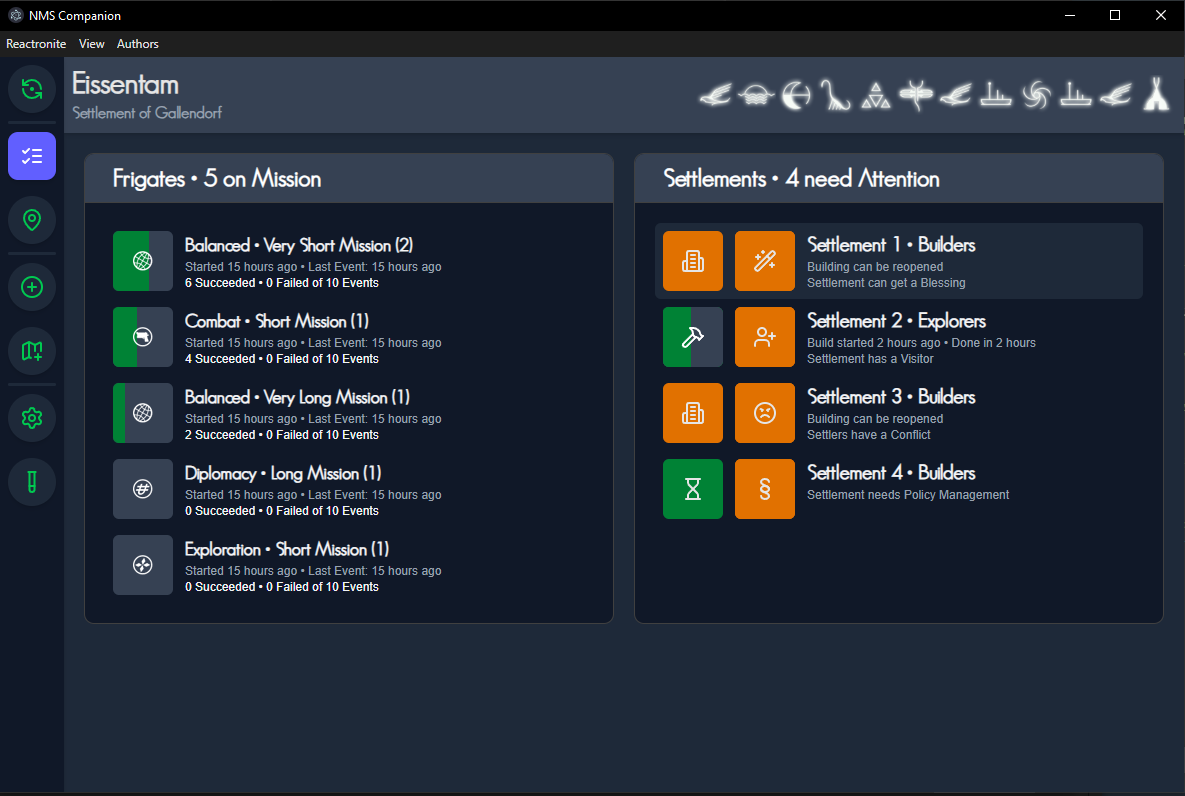
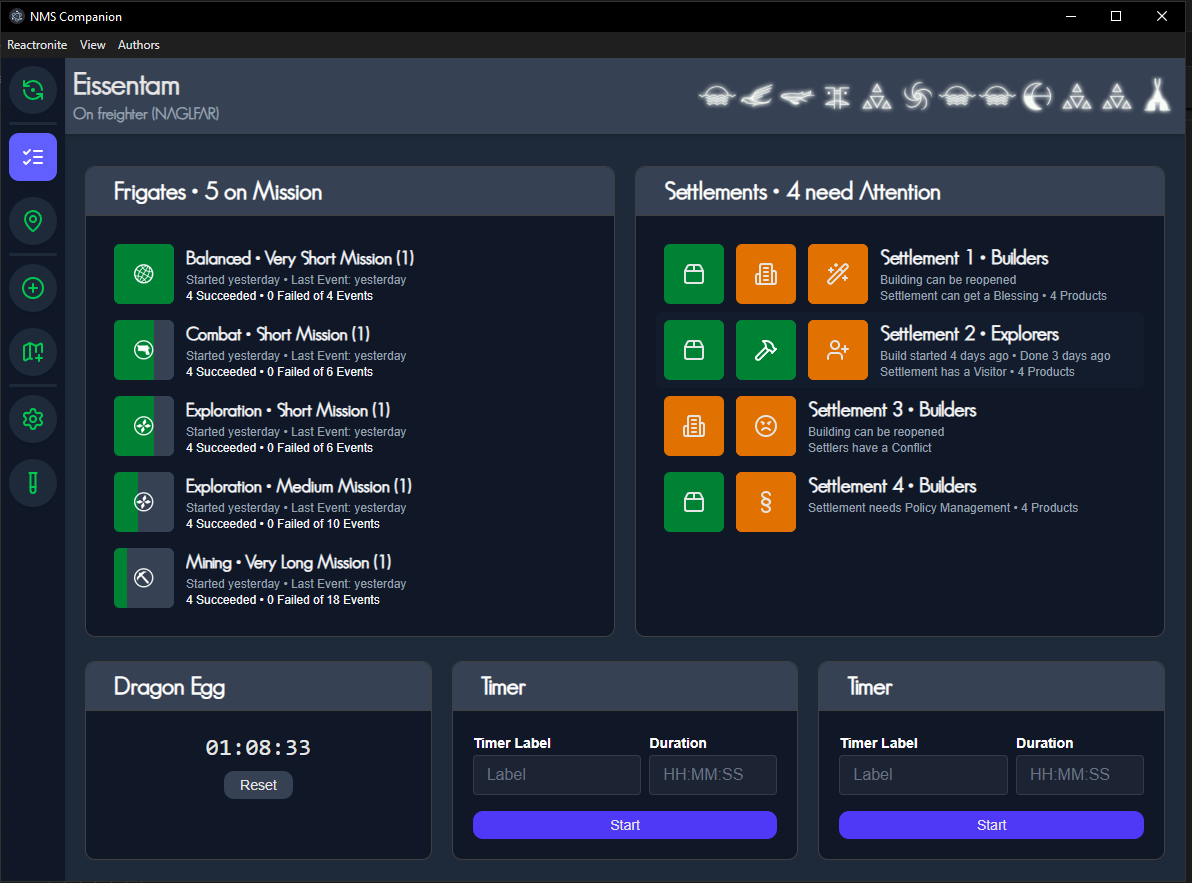
feat: timer feature

diff --git a/src/app/components/TimerMission.tsx b/src/app/components/TimerMission.tsx
@@ -1,0 +1,139 @@
+import React from 'react';
+import { useForm, SubmitHandler } from 'react-hook-form';
+
+import Card from './Card';
+
+interface TimerFormValues {
+  label: string;
+  duration: string;
+}
+
+interface TimerData {
+  endTime: number;
+  label: string;
+  confirmed?: boolean;
+}
+
+interface TimerComponentProps {
+  storageKey: string;
+}
+
+export const TimerMission: React.FC<TimerComponentProps> = ({ storageKey }) => {
+  const { register, handleSubmit, reset, watch, setValue } = useForm<TimerFormValues>({
+    defaultValues: { label: '', duration: '' }
+  });
+
+  const stored = localStorage.getItem(storageKey);
+  const timerData: TimerData | null = stored ? JSON.parse(stored) : null;
+  const remaining = timerData ? Math.max(timerData.endTime - Date.now(), 0) : null;
+  const isExpired = remaining !== null && remaining <= 0;
+
+  const onSubmit: SubmitHandler<TimerFormValues> = (data) => {
+    const [
+      h = '0',
+      m = '0',
+      s = '0'
+    ] = data.duration.split(':');
+    const totalMs =
+      parseInt(h) * 3600 * 1000 +
+      parseInt(m) * 60 * 1000 +
+      parseInt(s) * 1000;
+
+    const endTime = Date.now() + totalMs;
+    const timer: TimerData = { endTime, label: data.label, confirmed: false };
+    localStorage.setItem(storageKey, JSON.stringify(timer));
+    reset({ duration: '', label: '' });
+  };
+
+  const handleConfirmEnd = () => {
+    localStorage.removeItem(storageKey);
+    reset();
+  };
+
+  const handleCancel = () => {
+    localStorage.removeItem(storageKey);
+    reset();
+  };
+
+  const watchedLabel = watch('label');
+
+  return (
+    <Card title={timerData ? timerData.label : watchedLabel || 'Timer'}>
+      {!timerData
+        ? (
+          <form onSubmit={handleSubmit(onSubmit)} className='flex flex-col gap-3'>
+            <div className='flex gap-2'>
+              <div className='flex-1'>
+                <label className='input-text-label' htmlFor='label'>Timer Label</label>
+                <input
+                  id='label'
+                  {...register('label', { required: true })}
+                  className='input-text w-full'
+                  placeholder='Label'
+                />
+              </div>
+
+              <div className='w-32'>
+                <label className='input-text-label' htmlFor='duration'>Duration</label>
+                <input
+                  id='duration'
+                  {...register('duration', { required: true })}
+                  className='input-text w-full'
+                  placeholder='HH:MM:SS'
+                  onChange={(e) => {
+                    let input = e.target.value.replace(/[^\d:]/g, '');
+                    input = input.replace(/(\d{2})(?=\d)/g, '$1:').slice(0, 8);
+                    const parts = input.split(':');
+                    if (parts.length >= 2 && parseInt(parts[1]) > 59) parts[1] = '59';
+                    if (parts.length === 3 && parseInt(parts[2]) > 59) parts[2] = '59';
+                    setValue('duration', parts.join(':'), { shouldValidate: true, shouldDirty: true });
+                  }}
+                />
+              </div>
+            </div>
+
+            <button
+              type='submit'
+              className='w-full py-1 rounded-xl bg-indigo-600 hover:bg-indigo-700 mt-1 text-sm'
+            >
+              Start
+            </button>
+          </form>
+          )
+        : isExpired
+          ? (
+            <div className='flex flex-col items-center gap-2'>
+              <h2 className='text-xl text-yellow-400 font-bold'>TIMER DONE</h2>
+              <p className='text-gray-400 text-sm'>Please confirm the timer has ended.</p>
+              <button
+                onClick={handleConfirmEnd}
+                className='px-4 py-1 bg-indigo-600 rounded-xl hover:bg-indigo-700 text-sm'
+              >
+                Dome
+              </button>
+            </div>
+            )
+          : (
+            <div className='flex flex-col items-center gap-2'>
+              <div className='text-2xl font-mono'>
+                {remaining !== null
+                  ? `${Math.floor(remaining / 3600000)
+                  .toString()
+                  .padStart(2, '0')}:${Math.floor((remaining % 3600000) / 60000)
+                  .toString()
+                  .padStart(2, '0')}:${Math.floor((remaining % 60000) / 1000)
+                  .toString()
+                  .padStart(2, '0')}`
+                  : '---'}
+              </div>
+              <button
+                onClick={handleCancel}
+                className='px-4 py-1 bg-gray-700 rounded-xl hover:bg-gray-600 text-sm'
+              >
+                Reset
+              </button>
+            </div>
+            )}
+    </Card>
+  );
+};

diff --git a/src/app/mockMission.tsx b/src/app/mockMission.tsx
@@ -1,8 +1,8 @@
 export const MOCKFRIGATES = [
   {
     category: 'Balanced',
-    started: '2025-10-11T01:12:54.000Z',
-    lastEvent: '2025-10-11T03:01:56.000Z',
+    started: new Date('2025-10-11T01:12:54.000Z'),
+    lastEvent: new Date('2025-10-11T03:01:56.000Z'),
     frigates: 1,
     fail: 0,
     success: 4,
@@ -12,8 +12,8 @@ export const MOCKFRIGATES = [
   },
   {
     category: 'Combat',
-    started: '2025-10-11T01:12:48.000Z',
-    lastEvent: '2025-10-11T03:05:18.000Z',
+    started: new Date('2025-10-11T01:12:48.000Z'),
+    lastEvent: new Date('2025-10-11T03:05:18.000Z'),
     frigates: 1,
     fail: 0,
     success: 4,
@@ -23,8 +23,8 @@ export const MOCKFRIGATES = [
   },
   {
     category: 'Exploration',
-    started: '2025-10-11T01:13:03.000Z',
-    lastEvent: '2025-10-11T03:05:33.000Z',
+    started: new Date('2025-10-11T01:13:03.000Z'),
+    lastEvent: new Date('2025-10-11T03:05:33.000Z'),
     frigates: 1,
     fail: 0,
     success: 4,
@@ -34,8 +34,8 @@ export const MOCKFRIGATES = [
   },
   {
     category: 'Exploration',
-    started: '2025-10-11T01:12:34.000Z',
-    lastEvent: '2025-10-11T03:05:04.000Z',
+    started: new Date('2025-10-11T01:12:34.000Z'),
+    lastEvent: new Date('2025-10-11T03:05:04.000Z'),
     frigates: 1,
     fail: 0,
     success: 4,
@@ -45,8 +45,8 @@ export const MOCKFRIGATES = [
   },
   {
     category: 'Mining',
-    started: '2025-10-11T01:12:42.000Z',
-    lastEvent: '2025-10-11T03:05:12.000Z',
+    started: new Date('2025-10-11T01:12:42.000Z'),
+    lastEvent: new Date('2025-10-11T03:05:12.000Z'),
     frigates: 1,
     fail: 0,
     success: 4,

diff --git a/src/app/screens/Missions.tsx b/src/app/screens/Missions.tsx
@@ -4,6 +4,7 @@ import Card from '../components/Card';
 import FrigateList from '../components/FrigatesList';
 import Loader from '../components/Loader';
 import SettlementsList from '../components/SettlementList';
+import { TimerMission } from '../components/TimerMission';
 import useMissionsStore from '../stores/useMissionsStore';
 
 export default function MissionsPage () {
@@ -56,6 +57,11 @@ export default function MissionsPage () {
               </h2>
               )}
         </Card>
+      </div>
+      <div className='mt-3 flex flex-1 gap-5'>
+        <TimerMission storageKey='timer1' />
+        <TimerMission storageKey='timer2' />
+        <TimerMission storageKey='timer3' />
       </div>
     </div>
   );
